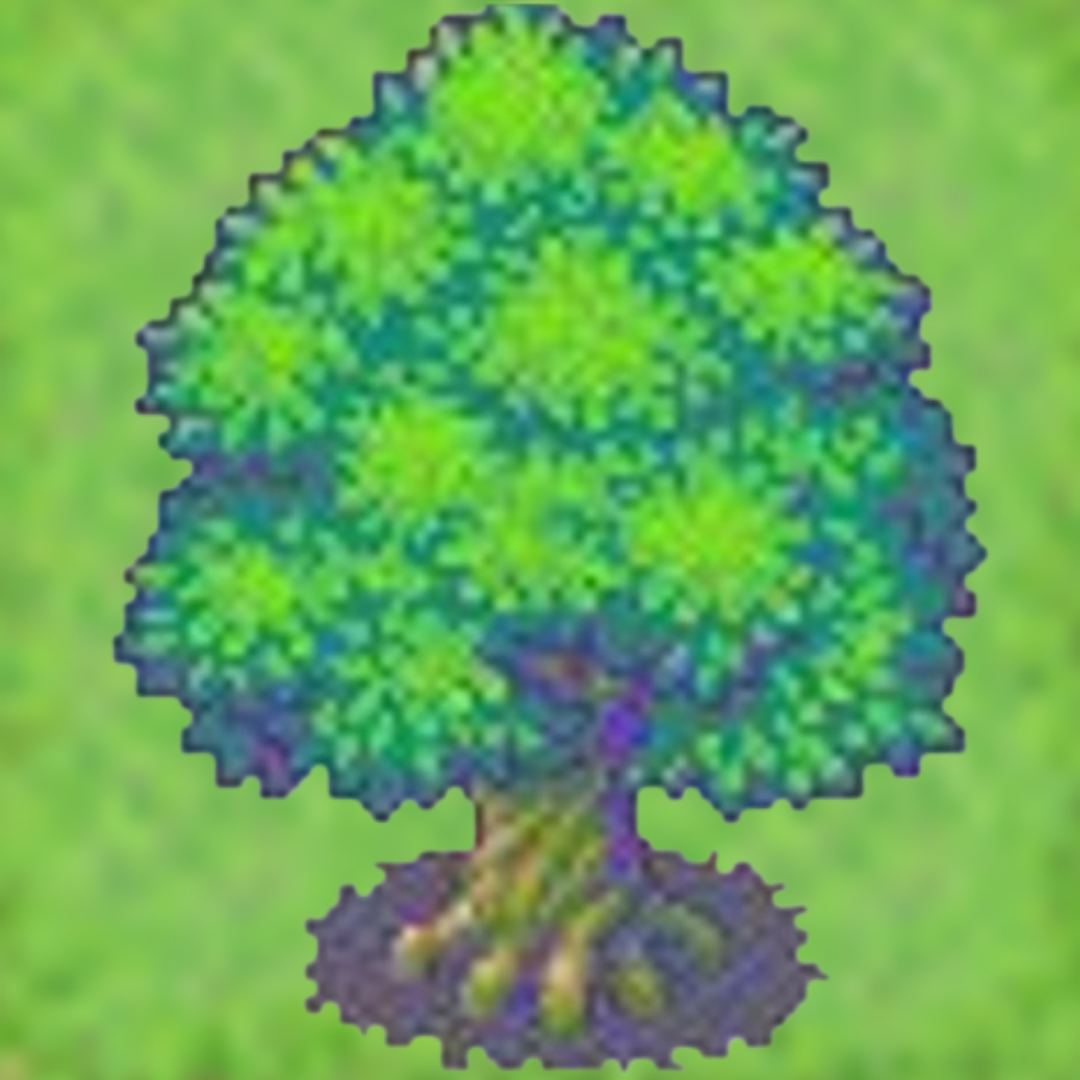
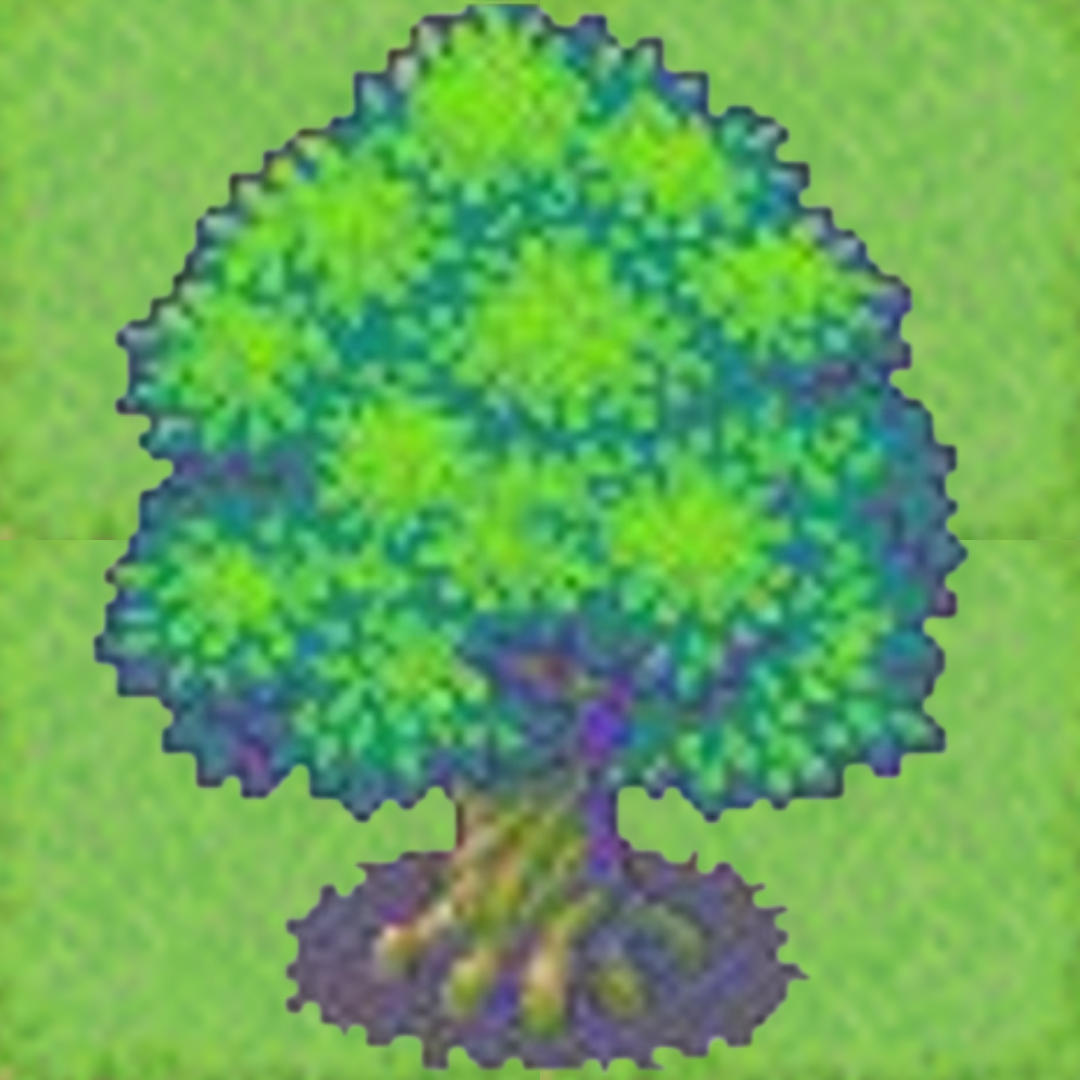
Changement de paradigme : chargement des assets utiles uniquement ; WORLD_OBJECTS est devenu une liste et plus une matrice

diff --git a/GameManager/niveau.py b/GameManager/niveau.py
@@ -10,7 +10,7 @@ WORLD1 = [ #configuration du niveau
     ['X','X','X','X','X','X','X','X','X','X','X','X','X','X','X','X','X','X','X','X'],
     ['X','.','.','.','.','.','.','.','.','.','.','.','.','.','.','.','.','.','.','X'],
     ['X','.','.','.','.','.','.','.','.','.','.','.','.','.','.','.','.','.','.','X'],
-    ['X','.','.','.','.','.','.','.','.','.','.','.','.','.','.','.','.','.','.','X'],
+    ['X','.','.','.','.','.','.','.','.','.','.','.','.','.','.','a','.','.','.','X'],
     ['X','.','.','.','.','.','.','.','.','.','.','.','.','.','.','.','.','.','.','X'],
     ['X','.','.','.','.','.','X','.','.','.','.','.','.','.','.','.','.','.','.','X'],
     ['X','.','.','.','.','.','.','.','.','.','.','.','.','.','.','.','.','.','.','X'],
@@ -21,26 +21,15 @@ WORLD1 = [ #configuration du niveau
     ['X','X','X','X','X','X','X','X','X','X','X','X','X','X','X','X','X','X','X','X']
 ]
 
-WORLD_OBJECTS = [ #contient les tuiles sous forme d'objets Tile
-    [],
-    [],
-    [],
-    [],
-    [],
-    [],
-    [],
-    [],
-    [],
-    [],
-    [],
-    []
-]
+
+WORLD_OBJECTS = []
 
 def choose_world(world):
     for row in range(len(world)):
         for col in range(len(world[row])):
             tuile_type = world[row][col]
             tuile_objet = Tile(row,col,tuile_type)
-            WORLD_OBJECTS[row].append(tuile_objet)
+            WORLD_OBJECTS.append(tuile_objet)
+
 
 choose_world(WORLD1)

diff --git a/GameManager/screen_maker.py b/GameManager/screen_maker.py
@@ -5,14 +5,21 @@ from .tile import *
 
 screen = pygame.display.set_mode((window_width, window_heigth))
 
+# def draw_world():
+#     background = pygame.transform.scale(pygame.image.load(os.path.join("Assets","background_grille.png")),(window_width, window_heigth)) # background
+#     screen.blit(background,(0,0))
+#     for row in WORLD_OBJECTS:
+#         for elem in row:
+#             if elem.type != '.':
+#                 screen.blit(elem.sprite,(elem.hitbox.y,elem.hitbox.x)) #affiche l'élément de premier plan du niveau à la case donnée 
+
 def draw_world():
     background = pygame.transform.scale(pygame.image.load(os.path.join("Assets","background_grille.png")),(window_width, window_heigth)) # background
     screen.blit(background,(0,0))
-    for row in WORLD_OBJECTS:
-        for elem in row:
-            if elem.type != '.':
-                screen.blit(elem.sprite,(elem.hitbox.y,elem.hitbox.x)) #affiche l'élément de premier plan du niveau à la case donnée 
-         
+    for elem in WORLD_OBJECTS:
+        if elem.type != '.':
+            screen.blit(elem.sprite,(elem.hitbox.y,elem.hitbox.x)) #affiche l'élément de premier plan du niveau à la case donnée 
+
 def draw_character(character):
     screen.blit(character.sprite, (character.hitbox.x, character.hitbox.y))  # elements après
     

diff --git a/PlayerManager/controls.py b/PlayerManager/controls.py
@@ -12,8 +12,6 @@ def player_movements(character):
         "gauche" : pygame.transform.flip(pygame.transform.scale(pygame.image.load(os.path.join("Assets","Characters", "chevalier.png")), (character.width, character.heigth)),True,False)
     }
 
-#    tile = WORLD_OBJECTS[character.hitbox.x][character.hitbox.y]
-
     if keys_pressed[pygame.K_z] and character.hitbox.y > 0 and not collide(character):  # haut
         character.hitbox.y -= character.speed
     if keys_pressed[pygame.K_q] and character.hitbox.x > 0:  # gauche
@@ -26,9 +24,8 @@ def player_movements(character):
         character.sprite = player_sprites["droite"]
 
 def collide(character):
-    for row in WORLD_OBJECTS:
-        for elem in row:
-            if character.hitbox.colliderect(elem.hitbox):
-                return True
+    for elem in WORLD_OBJECTS:
+        if character.hitbox.colliderect(elem.hitbox):
+            return True
     return False
         

diff --git a/GameManager/tile.py b/GameManager/tile.py
@@ -14,5 +14,5 @@ class Tile(object):
             self.sprite = pygame.transform.scale(pygame.image.load(os.path.join("Assets","Environment","herbe.png")),(0, 0)) #. = rien
             self.hitbox = pygame.Rect(0,0,0,0)
         elif tile_type == 'a':
-            self.sprite = pygame.transform.scale(pygame.image.load(os.path.join("Assets","Environment","arbre.png")),(100, 100)) #. = herbe
-            self.hitbox = pygame.Rect(self.x*50,self.y*50,100,100)
+            self.sprite = pygame.transform.scale(pygame.image.load(os.path.join("Assets","Environment","arbre.png")),(200, 200)) #. = herbe
+            self.hitbox = pygame.Rect(self.x*50,self.y*50,200,200)
